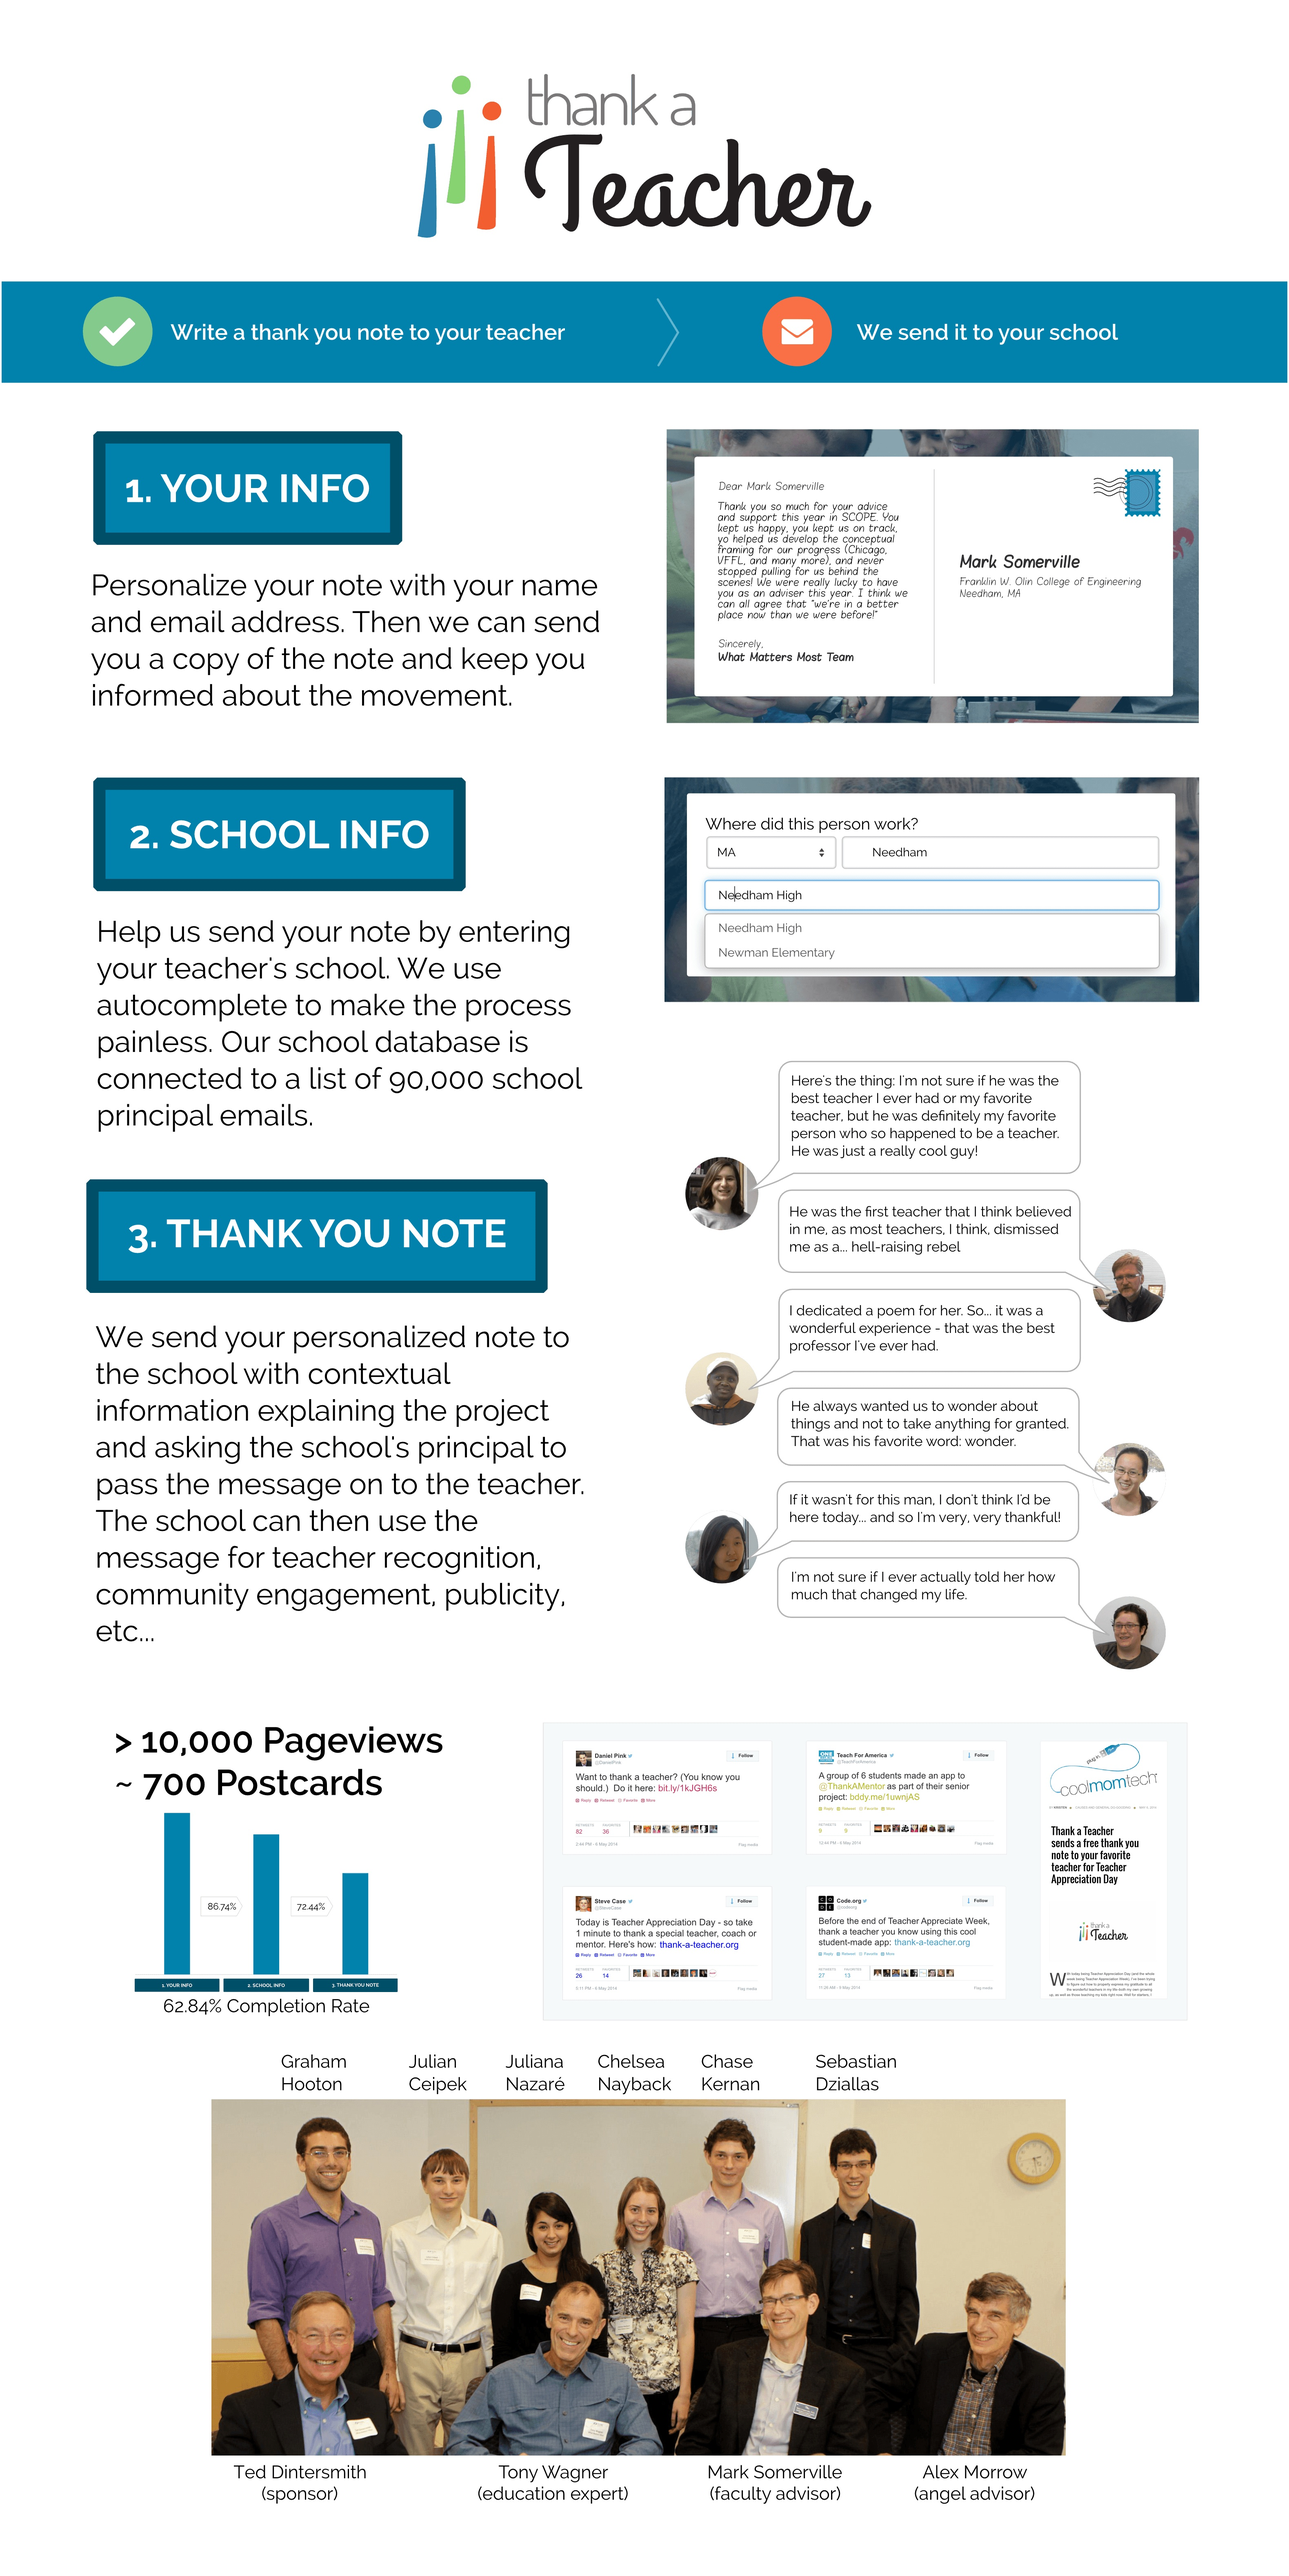
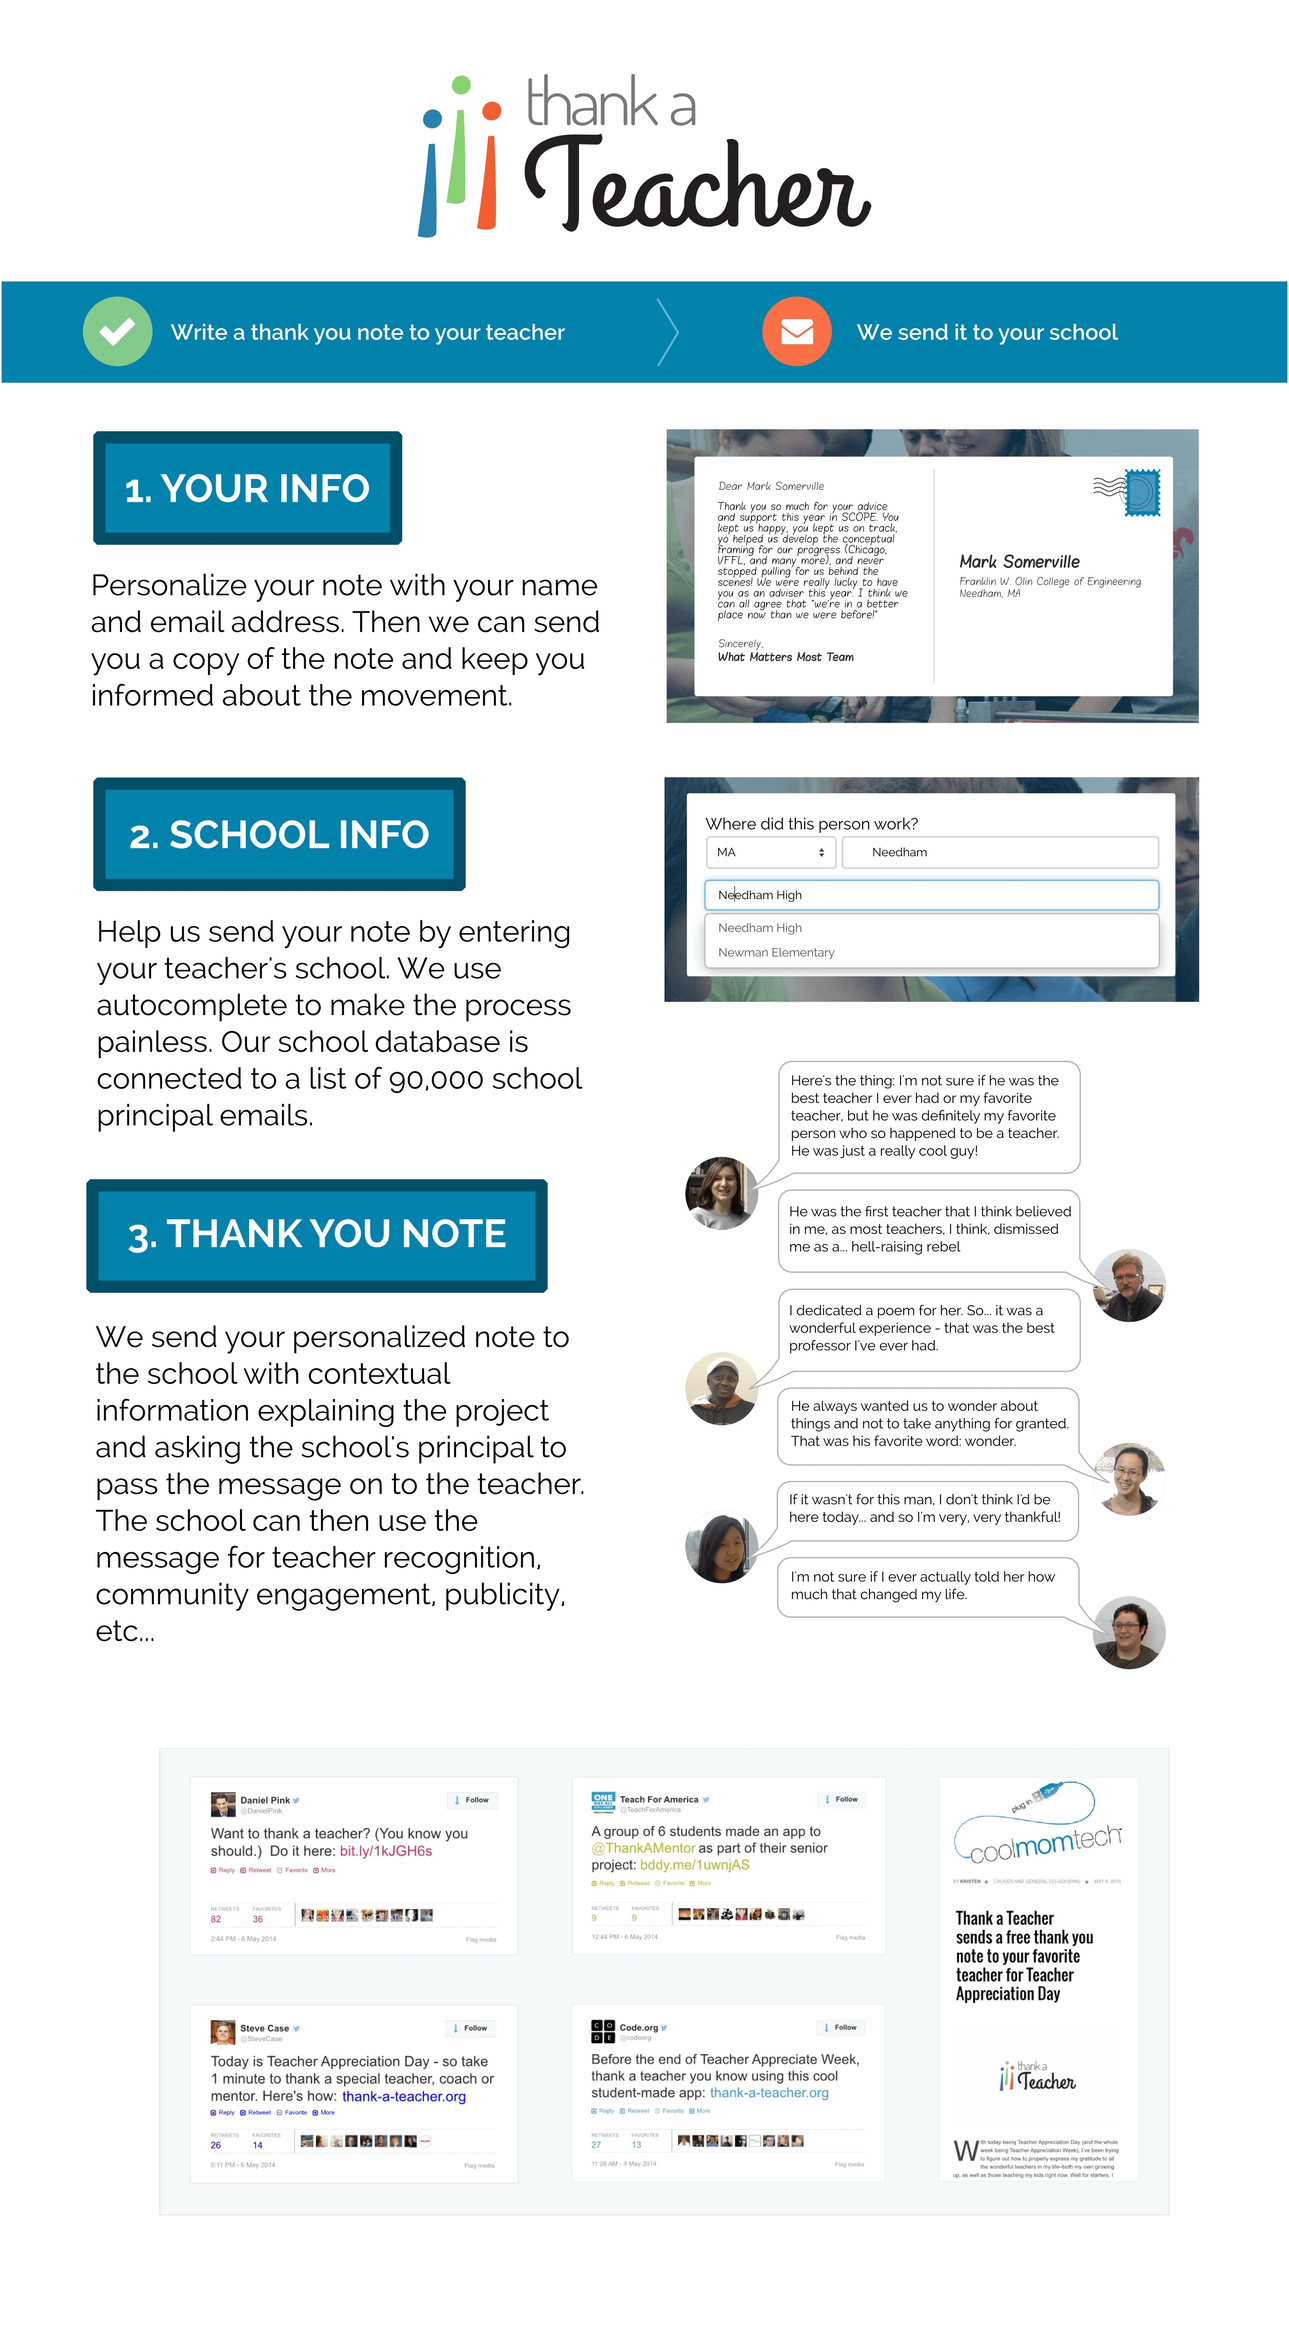
fixing images

Changed region(s): [[0.0, 0.0312, 1.0, 0.9671]]

diff --git a/src/projects/thank-a-teacher.md b/src/projects/thank-a-teacher.md
@@ -7,4 +7,6 @@ As part of a 6-person team, I worked on creating Thank-A-Teacher.org, a webapp t
 
 Send a thank you note to a teacher on the live [thank-a-teacher.org](http://www.thank-a-teacher.org/) site.
 
-<center><img src="../static/img/project-images/thankateacherposter.jpg" width="70%"></center>
+Teammates: Sebastian Dziallas, Chase Kernan, Julian Ceipek, Chelsea Nayback, and Graham Hooton
+
+<center><img src="../static/img/project-images/thankateacherposter.jpg" width="50%"></center>
